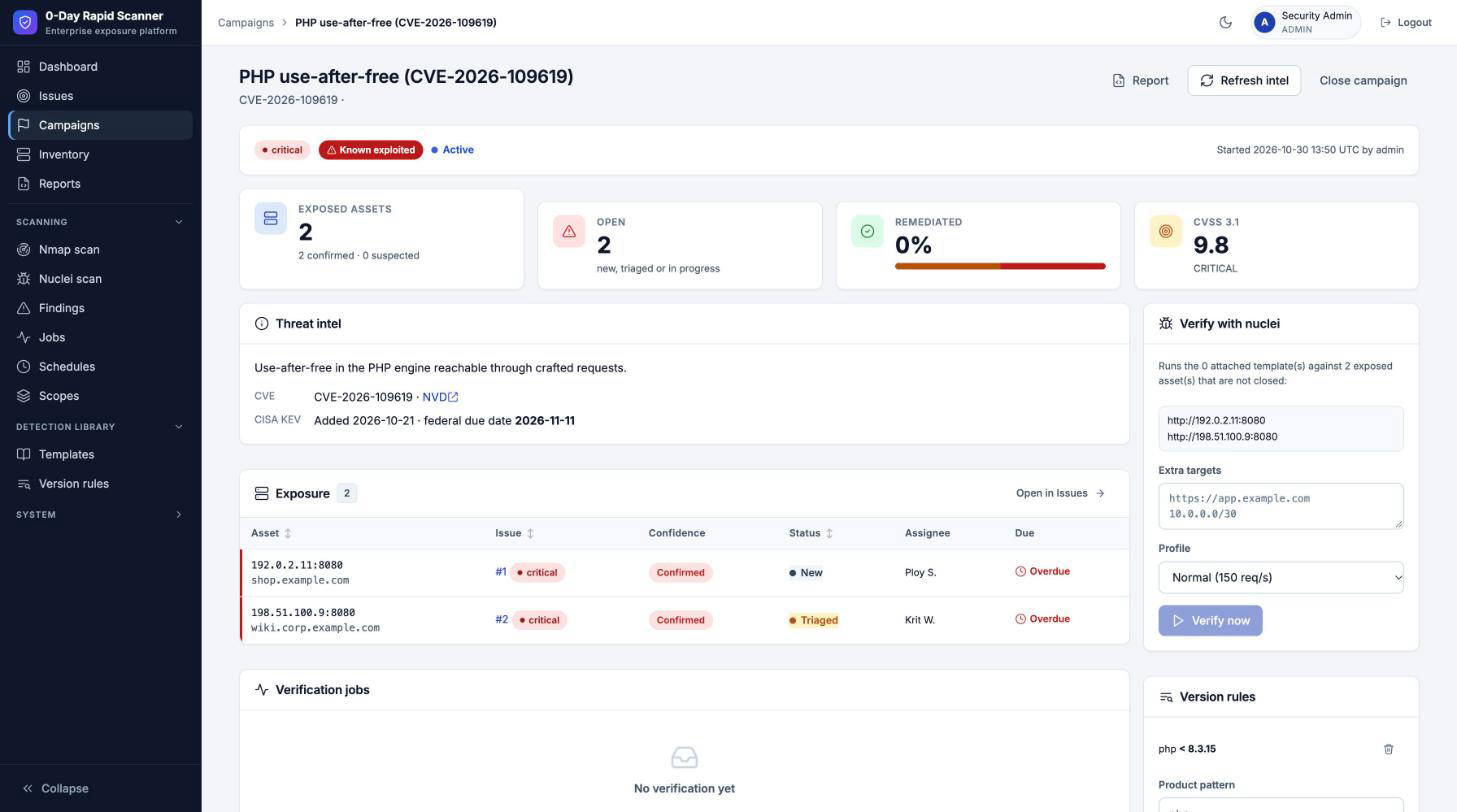
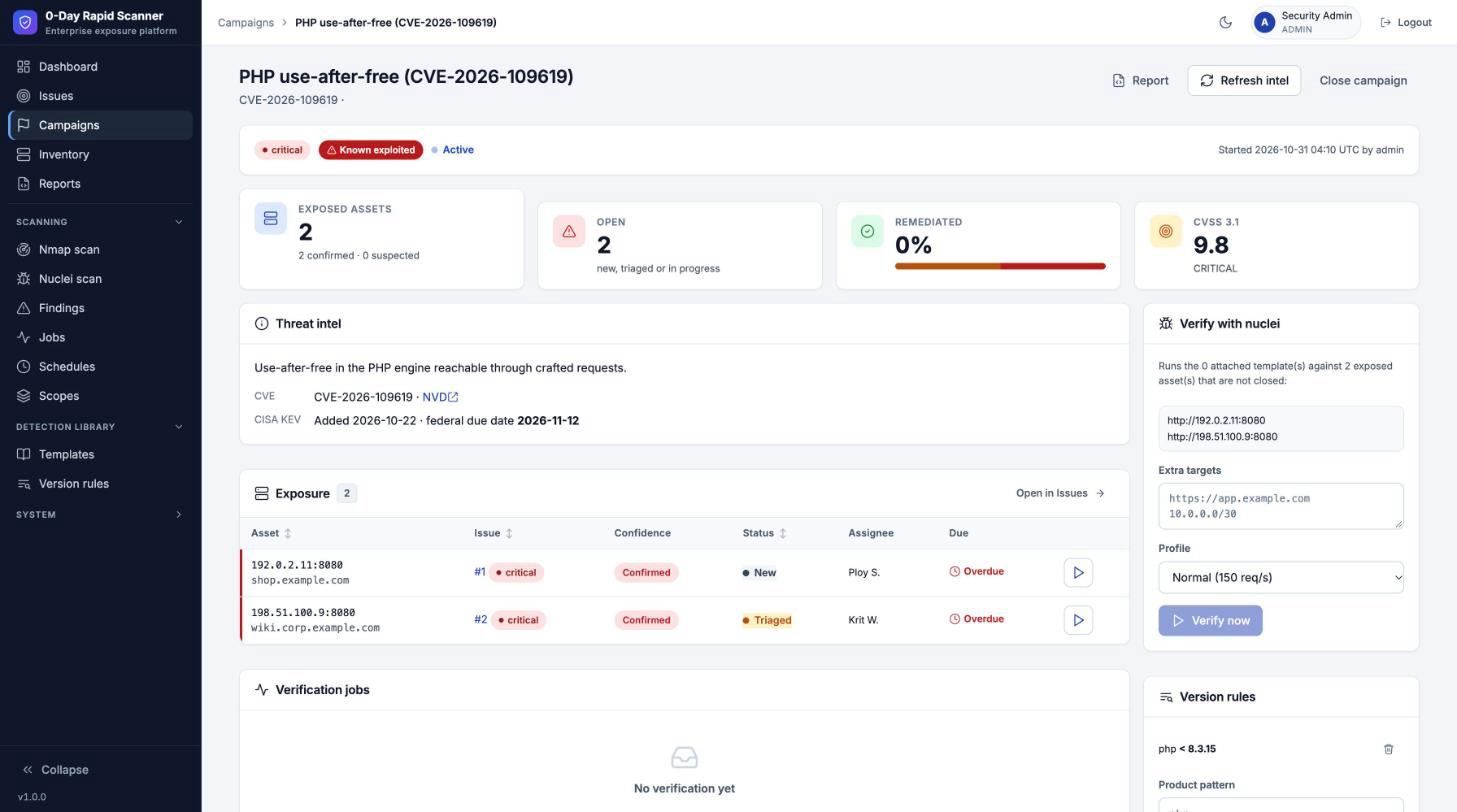
release: 1.0.0
Version 1.0.0 in app/__init__.py, shown in the sidebar footer and returned by
/healthz and /api/v1/me; OCI labels on the Docker image. CHANGELOG cut for 1.0.0
with compare links. README version badge and two new screenshots (Verify now and
Proof, verification template); all screenshots retaken on fictional demo data.
Thai guide: version note, upgrade/backup steps and the new screenshots.
Template search results in the verification card use a tidy grid layout.

diff --git a/app/static/app.css b/app/static/app.css
@@ -100,6 +100,9 @@ code{background:var(--surface-3);padding:1px 6px;border-radius:4px}
 .sidebar-foot{padding:10px;border-top:1px solid var(--sidebar-border)}
 .sidebar-foot button{width:100%;justify-content:flex-start;background:transparent;border-color:transparent;color:var(--sidebar-muted)}
 .sidebar-foot button:hover{background:var(--sidebar-active);color:#fff}
+.app-version{display:block;padding:6px 12px 0;font-size:11.5px;color:var(--sidebar-muted);font-variant-numeric:tabular-nums}
+.app-version:hover{color:#fff;text-decoration:none}
+.shell.collapsed .app-version{padding:6px 0 0;text-align:center;font-size:10.5px}
 .shell.collapsed .brand small,.shell.collapsed .brand .name,.shell.collapsed .nav-group-label,.shell.collapsed .nav a span,.shell.collapsed .sidebar-foot span{display:none}
 .shell.collapsed .nav a{justify-content:center;padding:7px 0}
 .shell.collapsed .nav-group.closed .nav-items{display:block}
@@ -437,3 +440,7 @@ details.proof [data-proof-more]{margin-top:8px}
 .play-btn:hover{background:var(--primary-soft);border-color:var(--primary)}
 .play-btn.muted{color:var(--text-3)}
 .play-form{display:inline-block;margin:0}
+.verify-hit{display:grid;grid-template-columns:auto 1fr auto;align-items:start;gap:4px 10px;padding:8px 2px;cursor:pointer}
+.verify-hit input{margin-top:3px}
+.verify-hit .hit-text{display:flex;flex-direction:column;gap:2px;min-width:0;overflow-wrap:anywhere}
+#verify-results{max-height:320px;overflow:auto}

diff --git a/app/static/app.js b/app/static/app.js
@@ -205,9 +205,9 @@
         vres.innerHTML = rows.length ? "" : '<p class="small text-2">No templates match.</p>';
         rows.slice(0, 20).forEach((row, i) => {
           const l = document.createElement("label");
-          l.className = "list-row row center";
+          l.className = "list-row verify-hit";
           l.innerHTML = `<input type="radio" name="template_id" value="${esc(row.template_id)}"${i === 0 ? " checked" : ""}>` +
-            `<span class="cell-mono small">${esc(row.template_id)}</span><span class="small">${esc(row.name)}</span>` +
+            `<span class="hit-text"><span class="cell-mono small">${esc(row.template_id)}</span><span class="small text-2">${esc(row.name)}</span></span>` +
             `<span class="badge sev-${esc(row.severity)}">${esc(row.severity)}</span>`;
           vres.appendChild(l);
         });

diff --git a/app/templates/base.html b/app/templates/base.html
@@ -57,6 +57,7 @@
     </nav>
     <div class="sidebar-foot">
       <button type="button" class="collapse-btn" id="collapse-btn" aria-label="Collapse sidebar"><svg class="icon"><use href="#i-chevrons-left"/></svg><span>Collapse</span></button>
+      <a class="app-version" href="https://github.com/zildjiean/Vulnerabilty-Rapid-Scanner/blob/master/CHANGELOG.md" target="_blank" rel="noopener noreferrer" title="Changelog">v{{ app_version }}</a>
     </div>
   </aside>
   <div class="overlay" id="nav-overlay"></div>

diff --git a/app/main.py b/app/main.py
@@ -8,6 +8,7 @@ from starlette.exceptions import HTTPException as StarletteHTTPException
 from fastapi.staticfiles import StaticFiles
 from sqlalchemy import select
 
+from . import __version__
 from .auth import AuthMiddleware, LoginRateLimiter, SessionStore, seed_admin
 from .config import Settings, settings_from_env
 from .db import TemplateIndex, init_db, make_engine, make_session_factory
@@ -60,7 +61,7 @@ def create_app(settings: Settings | None = None) -> FastAPI:
         app.state.scheduler_task.cancel()
         app.state.notifications_task.cancel()
 
-    app = FastAPI(title="0-Day Rapid Scanner", lifespan=lifespan, docs_url=None, redoc_url=None)
+    app = FastAPI(title="0-Day Rapid Scanner", version=__version__, lifespan=lifespan, docs_url=None, redoc_url=None)
     app.state.settings = settings
     app.state.SessionLocal = SessionLocal
     app.state.sessions = SessionStore(settings.secret_key)
@@ -102,6 +103,6 @@ def create_app(settings: Settings | None = None) -> FastAPI:
 
     @app.get("/healthz")
     def healthz():
-        return {"status": "ok"}
+        return {"status": "ok", "version": __version__}
 
     return app

diff --git a/app/routers/api.py b/app/routers/api.py
@@ -9,6 +9,7 @@ from pydantic import BaseModel, Field
 from sqlalchemy import func, select
 from sqlalchemy.orm import Session
 
+from .. import __version__
 from .. import campaigns as camp
 from .. import issues as iss
 from .. import reports as rep
@@ -40,7 +41,7 @@ def _bad(message: str):
 @router.get("/me", dependencies=VIEW)
 def me(request: Request):
     p = request.state.user
-    return {"username": p.owner_username, "role": p.role, "key": p.key_name}
+    return {"username": p.owner_username, "role": p.role, "key": p.key_name, "version": __version__}
 
 
 # ----------------------------------------------------------------- issues

diff --git a/tests/test_api.py b/tests/test_api.py
@@ -56,7 +56,9 @@ def test_authentication_failures(auth):
     auth.cookies.clear()
     assert auth.get("/api/v1/me").status_code == 401
     assert api(auth, "zdrs_wrong", "GET", "/me").status_code == 401
-    assert auth.get("/api/v1/me", headers={"X-API-Key": key}).status_code == 200
+    r = auth.get("/api/v1/me", headers={"X-API-Key": key})
+    from app import __version__
+    assert r.status_code == 200 and r.json()["version"] == __version__
     # a logged-in browser session is not accepted on the API
     login_as(auth, "admin", NEW_PASSWORD)
     assert auth.get("/api/v1/me").status_code == 401

diff --git a/tests/test_app.py b/tests/test_app.py
@@ -1,4 +1,10 @@
 def test_healthz(client):
     r = client.get("/healthz")
     assert r.status_code == 200
-    assert r.json() == {"status": "ok"}
+    from app import __version__
+    assert r.json() == {"status": "ok", "version": __version__}
+
+
+def test_sidebar_shows_the_version(auth):
+    from app import __version__
+    assert f">v{__version__}</a>" in auth.get("/").text

diff --git a/app/render.py b/app/render.py
@@ -26,6 +26,8 @@ def static_version() -> str:
 
 
 templates.env.globals["static_v"] = static_version()
+from . import __version__  # noqa: E402
+templates.env.globals["app_version"] = __version__
 from .mdlite import render_markdown  # noqa: E402
 templates.env.filters["mdlite"] = render_markdown
 

diff --git a/app/__init__.py b/app/__init__.py
@@ -1,0 +1,2 @@
+"""0-Day Rapid Scanner."""
+__version__ = "1.0.0"

diff --git a/docs/USER_GUIDE.th.md b/docs/USER_GUIDE.th.md
@@ -3,6 +3,9 @@
 คู่มือนี้อธิบายการใช้งานตั้งแต่ติดตั้งจนถึงรับมือ 0-day ตัวใหม่ เรียงตามเมนูด้านซ้ายของระบบ
 (English overview: [README](../README.md))
 
+คู่มือนี้ตรงกับ **เวอร์ชัน 1.0.0** ดูเวอร์ชันที่รันอยู่ได้ที่มุมล่างของเมนูด้านซ้าย (คลิกเพื่อเปิด
+[CHANGELOG](../CHANGELOG.md)) หรือ `curl http://localhost:8000/healthz`
+
 > **ใช้กับระบบที่คุณเป็นเจ้าของหรือได้รับอนุญาตให้ทดสอบเท่านั้น** เครื่องมือนี้ส่งแพ็กเก็ตไปยังเป้าหมายจริง
 
 ## สารบัญ
@@ -172,6 +175,8 @@ New → Triaged → In progress → Fixed → Verified
 
 ### ตรวจสอบซ้ำและเก็บหลักฐาน (Verify now / Proof)
 
+![Verify now และการ์ด Proof](screenshots/proof.png)
+
 - ปุ่ม **Verify now** (ไอคอน ▶) บนหน้า issue, ท้ายแถวในตาราง Issues และในตาราง Exposure ของ Campaign จะรัน nuclei
   ด้วย template ตัวเดิมต่อ asset นั้นตัวเดียว ผลขึ้นเป็นป้าย **reproduced** / **not reproduced** / **inconclusive**
   พร้อมบันทึกใน timeline ถ้า reproduced issue จะกลายเป็น confirmed
@@ -182,6 +187,8 @@ New → Triaged → In progress → Fixed → Verified
 - ถ้าโมเดล AI ปฏิเสธ หน้าจอจะขึ้นข้อความภาษาอังกฤษแนะนำให้เปลี่ยน provider/model ที่ **System → AI**
   แล้วลองใหม่ (บางโมเดลไม่ยอมเขียน template ตรวจช่องโหว่แม้เป็นการทดสอบระบบของตัวเอง)
 - ต้องมีสิทธิ์ `scan.run` จึงเห็นปุ่ม Play; viewer เห็น Proof ได้แต่สั่งสแกนไม่ได้
+
+![การ์ด Verification template ของ issue ที่มาจาก version rule](screenshots/verify-template.png)
 
 ## 7. รับมือ 0-day: Campaigns, Templates, Version rules
 
@@ -340,7 +347,14 @@ git pull
 docker compose build --pull --no-cache && docker compose up -d
 ```
 
-ข้อมูลใน `/data` ไม่หาย
+ข้อมูลใน `/data` ไม่หาย ตาราง/คอลัมน์ใหม่ของเวอร์ชันใหม่ถูกเพิ่มให้อัตโนมัติตอนเริ่มระบบ
+ก่อนอัปเกรดควรสำรองฐานข้อมูล:
+
+```bash
+docker exec zero-day-rapid-scanner python -c "import sqlite3; s=sqlite3.connect('/data/scanner.db'); d=sqlite3.connect('/data/scanner.db.bak'); s.backup(d)"
+```
+
+เช็กเวอร์ชันหลังอัปเกรด: `curl http://localhost:8000/healthz` จะได้ `{"status":"ok","version":"1.0.0"}`
 
 ## 14. แก้ปัญหาที่พบบ่อย
 

diff --git a/CHANGELOG.md b/CHANGELOG.md
@@ -6,7 +6,13 @@ All notable changes to this project are documented here. The format follows
 
 ## [Unreleased]
 
+## [1.0.0] - 2026-10-31
+
+First stable release: the scanner from 0.1.0 grows into a vulnerability-response platform.
+
 ### Added
+- Version number shown in the sidebar footer, returned by `/healthz` and `/api/v1/me`, and set as the
+  `org.opencontainers.image.version` label of the Docker image.
 - **Verify now (Play)** on every issue: re-runs the issue's nuclei template against that asset only, records
   *reproduced / not reproduced / inconclusive* on the issue timeline and marks it confirmed when reproduced.
   Available on the issue page, as a Play icon in the Issues list and in a campaign's exposure table.
@@ -100,3 +106,7 @@ All notable changes to this project are documented here. The format follows
 - Forced password change for the default `admin` account, CSRF protection, login rate limiting.
 - Single-container deployment (python:3.12-slim + nmap + nuclei, non-root).
 - Enterprise UI: sidebar shell, light/dark theme, KPI cards, sortable tables, toasts, confirm dialogs.
+
+[Unreleased]: https://github.com/zildjiean/Vulnerabilty-Rapid-Scanner/compare/v1.0.0...HEAD
+[1.0.0]: https://github.com/zildjiean/Vulnerabilty-Rapid-Scanner/compare/v0.1.0...v1.0.0
+[0.1.0]: https://github.com/zildjiean/Vulnerabilty-Rapid-Scanner/releases/tag/v0.1.0

diff --git a/README.md b/README.md
@@ -1,5 +1,6 @@
 # 0-Day Rapid Scanner
 
+[![Version](https://img.shields.io/badge/version-1.0.0-2563EB.svg)](CHANGELOG.md)
 [![CI](https://github.com/zildjiean/Vulnerabilty-Rapid-Scanner/actions/workflows/ci.yml/badge.svg)](https://github.com/zildjiean/Vulnerabilty-Rapid-Scanner/actions/workflows/ci.yml)
 [![License: MIT](https://img.shields.io/badge/License-MIT-blue.svg)](LICENSE)
 [![Python 3.12](https://img.shields.io/badge/python-3.12-blue.svg)](https://www.python.org/)
@@ -71,6 +72,8 @@ Everything runs in one container. No external services, no accounts, works offli
 | ![Issues](docs/screenshots/issues.png) | ![Campaign](docs/screenshots/campaign.png) |
 | **Inventory grouped by product** | **Nuclei scan** |
 | ![Inventory](docs/screenshots/inventory.png) | ![Nuclei scan](docs/screenshots/nuclei.png) |
+| **Verify now and Proof** | **Verification template for a suspected issue** |
+| ![Proof](docs/screenshots/proof.png) | ![Verification template](docs/screenshots/verify-template.png) |
 
 <sub>Screenshots use fictional demo data (RFC 5737 documentation addresses, example.com hosts, made-up CVE ids).</sub>
 
